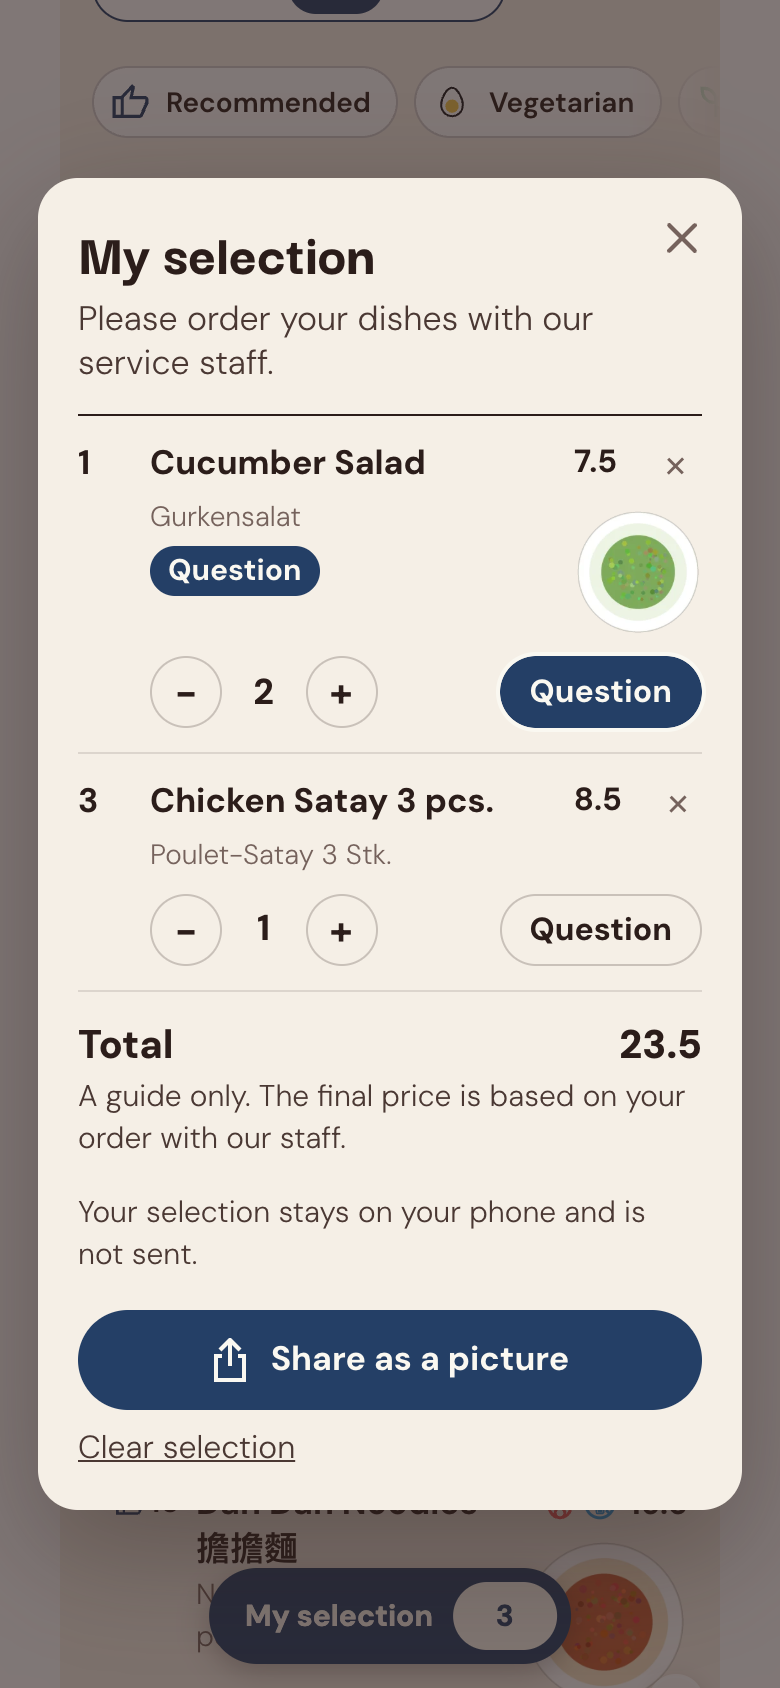
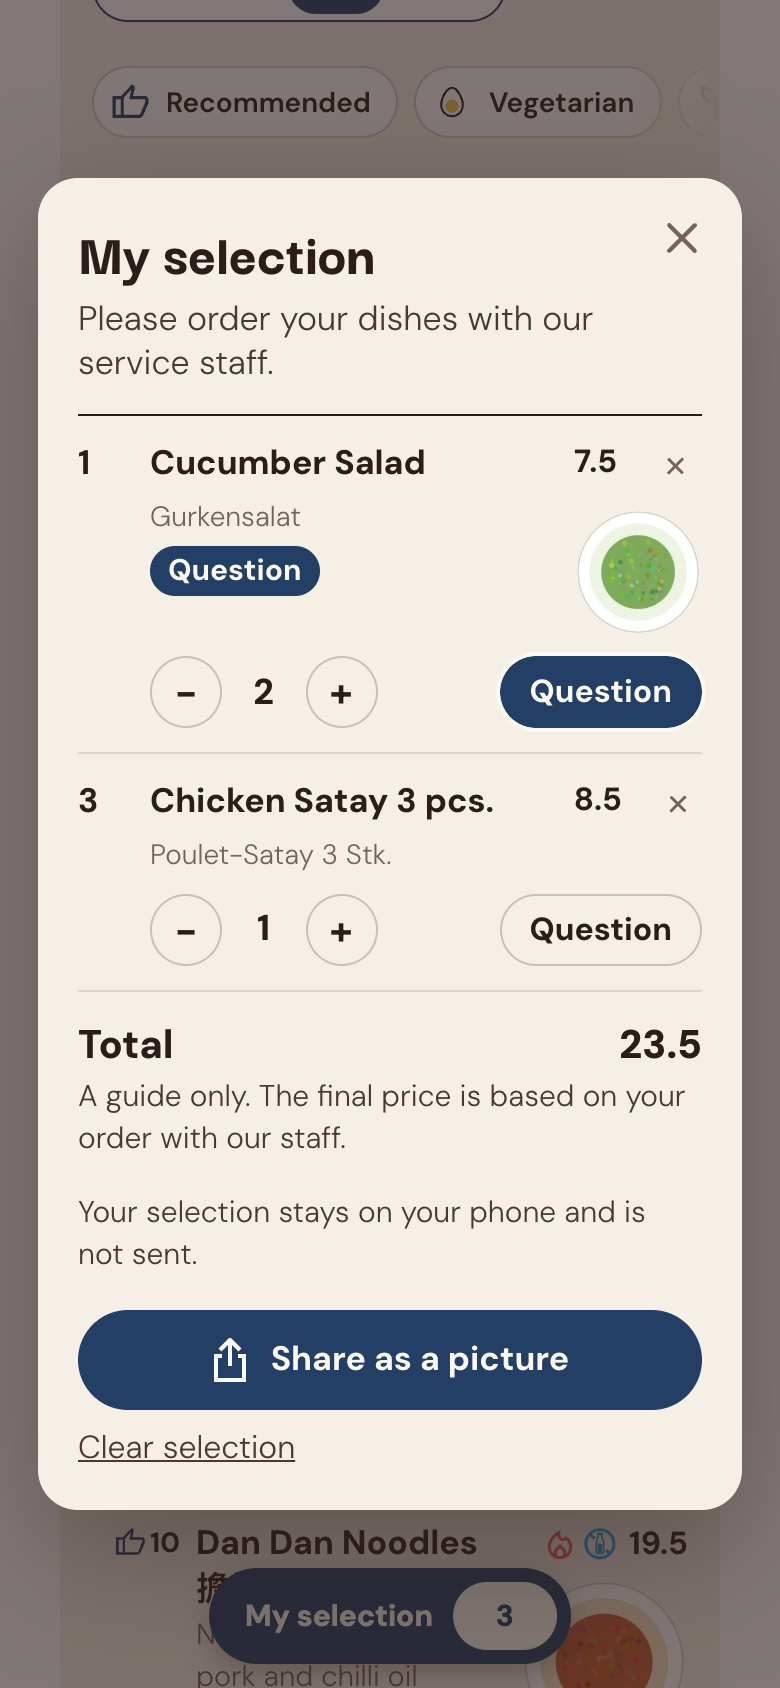
MenuDash 2.13.1: the + under the photo's corner, in line with the prices

Changed region(s): [[0.7077, 0.8934, 0.8923, 1.0], [0.1538, 0.8934, 0.6154, 0.955], [0.2462, 0.9858, 0.5538, 1.0]]

diff --git a/menudash/assets/menu.css b/menudash/assets/menu.css
@@ -400,13 +400,18 @@ body.admin-bar .menudash { --mdash-top: 32px; }
 }
 .menudash .mdash-add:not(.mdash-in):hover { background: rgba(255, 255, 255, .9); }
 @media (prefers-reduced-transparency: reduce) { .menudash .mdash-add:not(.mdash-in) { background: rgba(255, 253, 250, .97); } }
-.menudash .mdash-photo + .mdash-add { position: absolute; right: -8px; bottom: -12px; }
-.menudash .mdash-side > .mdash-add:not(.mdash-photo + .mdash-add) { margin-right: -8px; } /* in line with those on a photo */
+/* Right under the photo's corner, its edge in line with the prices: beside a round plate it
+   just touches the plate's edge, never the food (a + inside the corner would cover the rim, as
+   the free corner of a round photo holds only a circle of 17 % of its width). The row gets 10 px
+   more at the bottom for it. */
+.menudash .mdash-photo + .mdash-add { position: absolute; right: 0; bottom: -20px; }
+.menudash.mdash-has-list .mdash-dish:has(.mdash-photo + .mdash-add) { padding-bottom: 24px; }
 @container (min-width: 560px) {
-  /* In the photo's column: on its corner, or at the top where a dish has no photo. */
+  /* In the photo's column: under its corner, or at the top where a dish has no photo. */
   .menudash .mdash-add { grid-column: 4; grid-row: 1; justify-self: end; /* in one line with those on a photo */ }
-  .menudash .mdash-photo + .mdash-add { position: relative; right: auto; bottom: auto; justify-self: end; align-self: end; margin: 0 -8px -12px 0; } /* as on a phone */
+  .menudash .mdash-photo + .mdash-add { position: relative; right: auto; bottom: auto; justify-self: end; align-self: end; margin: 0 0 -20px 0; } /* as on a phone */
 }
+@media (min-width: 782px) { .menudash.mdash-has-list .mdash-dish:has(.mdash-photo + .mdash-add) { padding-bottom: 14px; } } /* no + there */
 
 /* The bar that opens the list, fixed at the bottom; menu.js moves it out of the menu box and
    gives it the menu's colours. It shows the words of the menu's interface language (data-ui). */

diff --git a/menudash/menudash.php b/menudash/menudash.php
@@ -2,7 +2,7 @@
 /**
  * Plugin Name:       MenuDash
  * Description:       A restaurant menu for your website, kept in a spreadsheet: upload the menu as CSV and the dish photos under MenuDash, then put [menudash] on a page. Guests read it in German, English and Chinese, all at once or one at a time, and filter by diet. Background and highlight colours and the diet icons are chosen on the MenuDash page, and a QR code to the menu prints as table cards. Add-ons: MenuDash Restaurant (details, opening hours, holidays, "open now"), MenuDash Specials (today's specials) and MenuDash Gift Cards (gift card orders).
- * Version:           2.13.0
+ * Version:           2.13.1
  * Requires at least: 6.3
  * Requires PHP:      7.4
  * Plugin URI:        https://insdash.ch/projects/menudash/
@@ -15,7 +15,7 @@
 
 defined( 'ABSPATH' ) || exit;
 
-define( 'MENUDASH_VERSION', '2.13.0' );
+define( 'MENUDASH_VERSION', '2.13.1' );
 define( 'MENUDASH_NAME', 'MenuDash' );
 define( 'MENUDASH_FILE', __FILE__ );
 define( 'MENUDASH_DIR', plugin_dir_path( __FILE__ ) );
